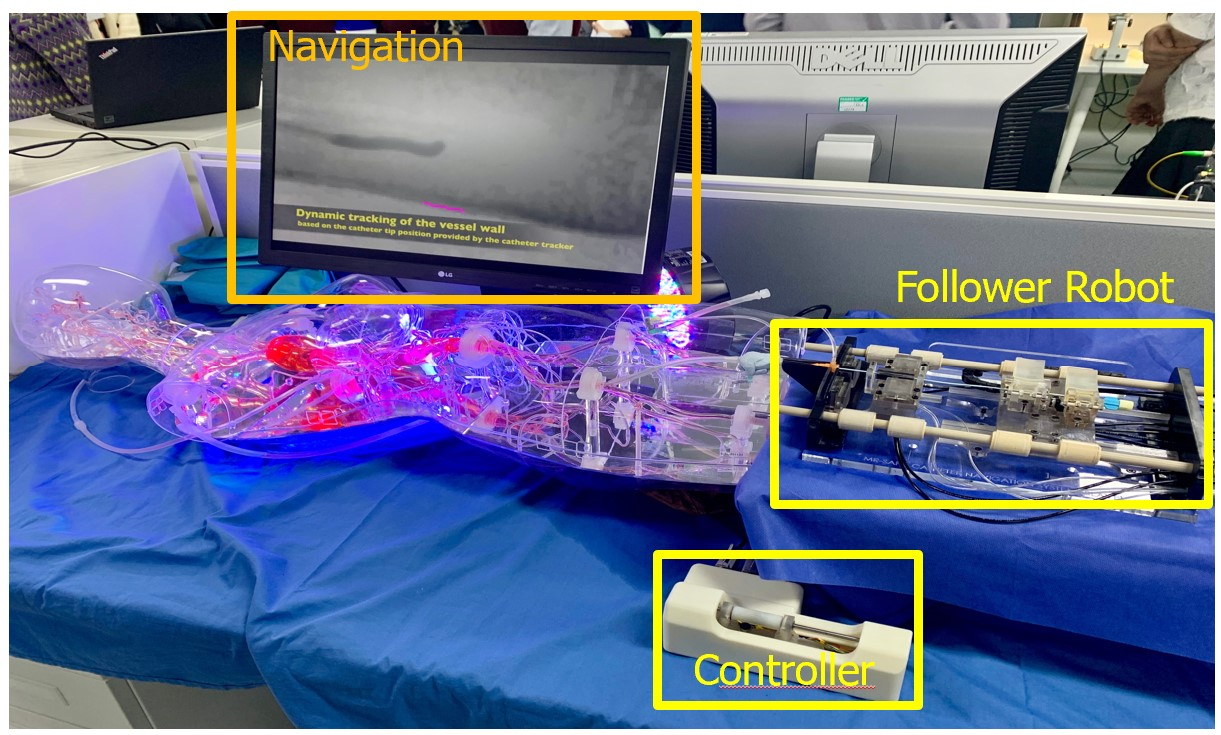
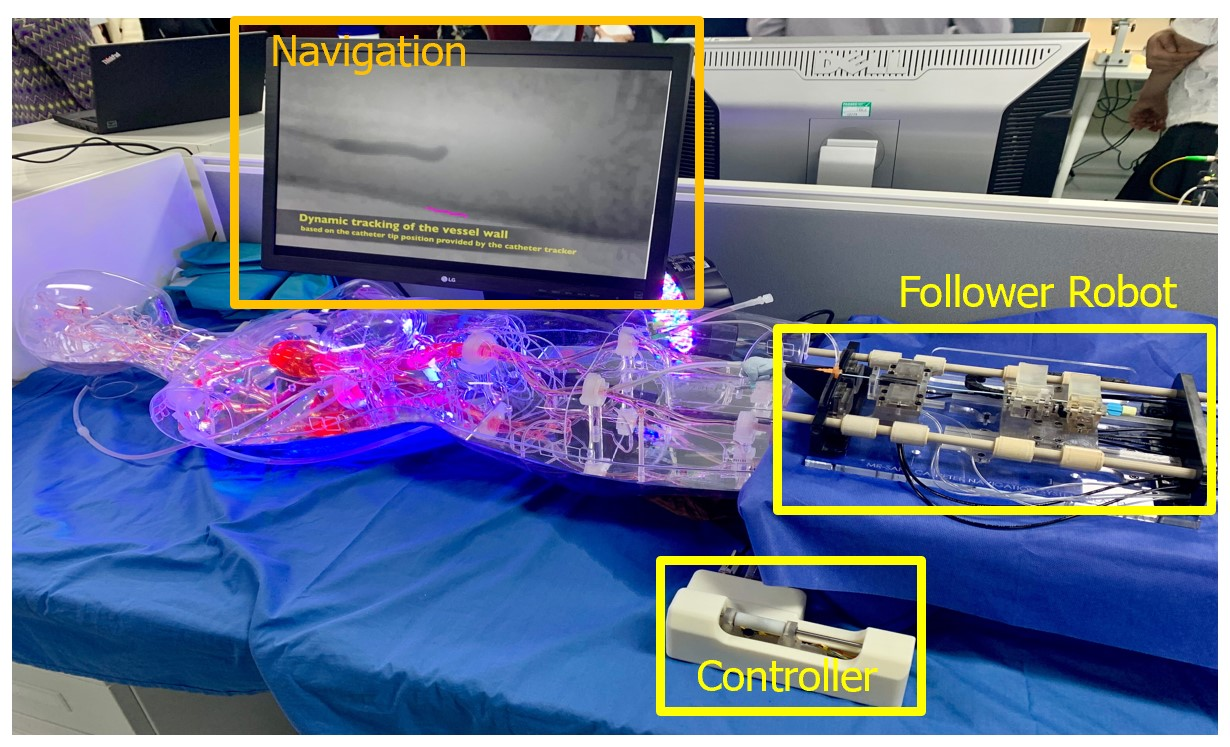
update img

diff --git a/docs/_docs/02-robot.md b/docs/_docs/02-robot.md
@@ -12,7 +12,7 @@ We develop endovascular robotic systems specifically designed to assist in robot
   <img src="{{ site.baseurl }}/assets/images/robot_cathease.jpg" width="100%" alt="robot_cathease">
 </div>
 
-CathEase is a simplified endovascular robot that focuses solely on translating and rotating the guidewire. It uses a Nema 17 stepper motor for translation, an additional motor for rotation, and is controlled by an Arduino Uno Rev3 with a CNC shield and two A4899 drivers, powered by a 12V DC source. Teleoperation input is provided through a Google Stadia joystick, ensuring an accessible and cost-effective setup for basic endovascular procedures.
+CathEase is a simplified endovascular robot that focuses on translating and rotating the guidewire. It uses a Nema 17 stepper motor for translation, an additional motor for rotation, and is controlled by an Arduino Uno Rev3 with a CNC shield and two A4899 drivers, powered by a 12V DC source. Teleoperation input is provided through a Google Stadia joystick, ensuring an accessible and cost-effective setup for endovascular procedures.
 
 
 ## CathBot Robot
@@ -23,6 +23,6 @@ CathEase is a simplified endovascular robot that focuses solely on translating a
 
 CathBot is a versatile master-slave robotic system designed for use in MRI environments. CathBot employs pneumatic actuation and additive manufacturing, enabling safe operation within MR settings. The master robot closely mimicks natural human motion—such as grasping, inserting, retracting, and rotating the instrument—while providing users with haptic feedback from the navigation system. This motion is mapped directly to a 4DoF MRI-safe slave robot, offering precise control and enhanced user experience during procedures.
 
-<video controls>
+<video width="640" height="420" controls>
   <source src="{{ site.baseurl }}/assets/videos/cathbot.mp4" alt="cathbot video" type="video/mp4">
 </video>
